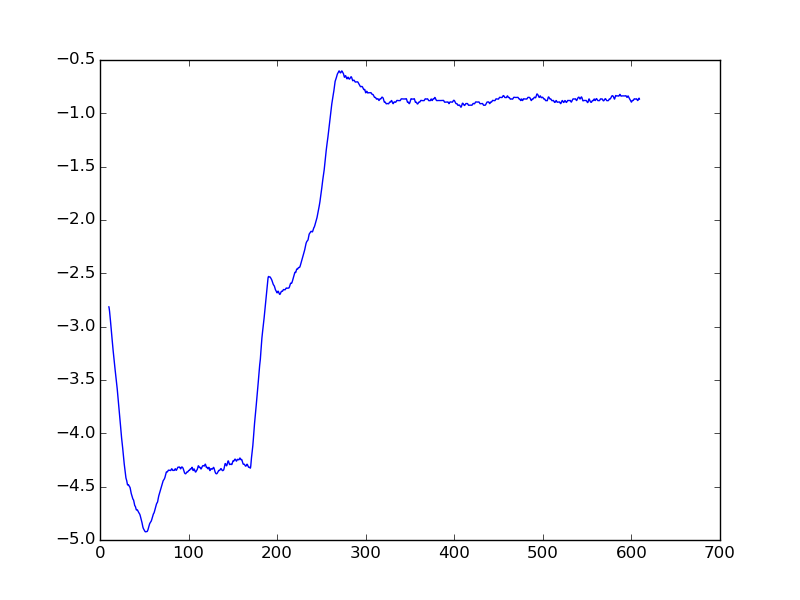
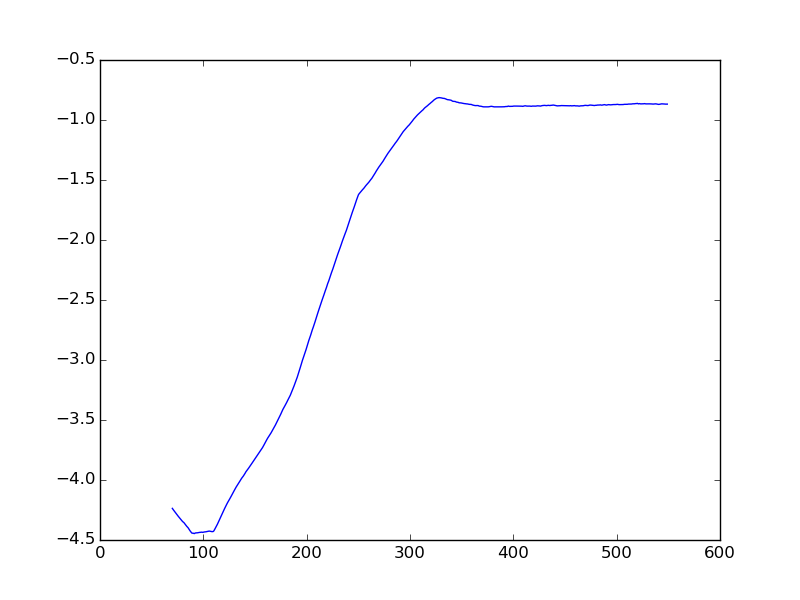
amélioration lissage

diff --git a/Ajouts_Maeva/interpolation.py b/Ajouts_Maeva/interpolation.py
@@ -15,7 +15,7 @@ def lissage(Lx, Ly, p):
     return Lxout, Lyout
     
 
-def interpolation(id_moteur, ligne_depart, ligne_arrivee, source):
+def interpolation(id_moteur, ligne_depart, ligne_arrivee, source, k):
 
     # Ouverture fichier source
     src = open(source,"r")
@@ -33,14 +33,14 @@ def interpolation(id_moteur, ligne_depart, ligne_arrivee, source):
     # Temps
     temps = np.arange(ligne_arrivee - ligne_depart + 1)
 
-    temps, valeurs_moteur = lissage(temps,valeurs_moteur,10)
+    temps, valeurs_moteur = lissage(temps,valeurs_moteur,k)
 
     # Interpolation
     f2 = interp1d(temps, valeurs_moteur, kind='cubic') #cubique
 
     # Affichage
     fig = plt.figure()
-    xnew = np.linspace(10, ligne_arrivee - ligne_depart-10, ligne_arrivee*10)
+    xnew = np.linspace(k, ligne_arrivee - ligne_depart-k, ligne_arrivee*10)
     plt.plot(xnew, f2(xnew), '-')
     name = "motor" + str(id_moteur) + ".png"
     fig.savefig(name)

diff --git a/Ajouts_Maeva/generate_graphs.py b/Ajouts_Maeva/generate_graphs.py
@@ -15,5 +15,5 @@ else:
 
     print("Drawing graphs...\n")
     for i in range(1,13):
-        interpolation.interpolation(i,2,taille-1,source)
+        interpolation.interpolation(i,2,taille-1,source,70)
     print("\nDrawing ended successfully\n")
